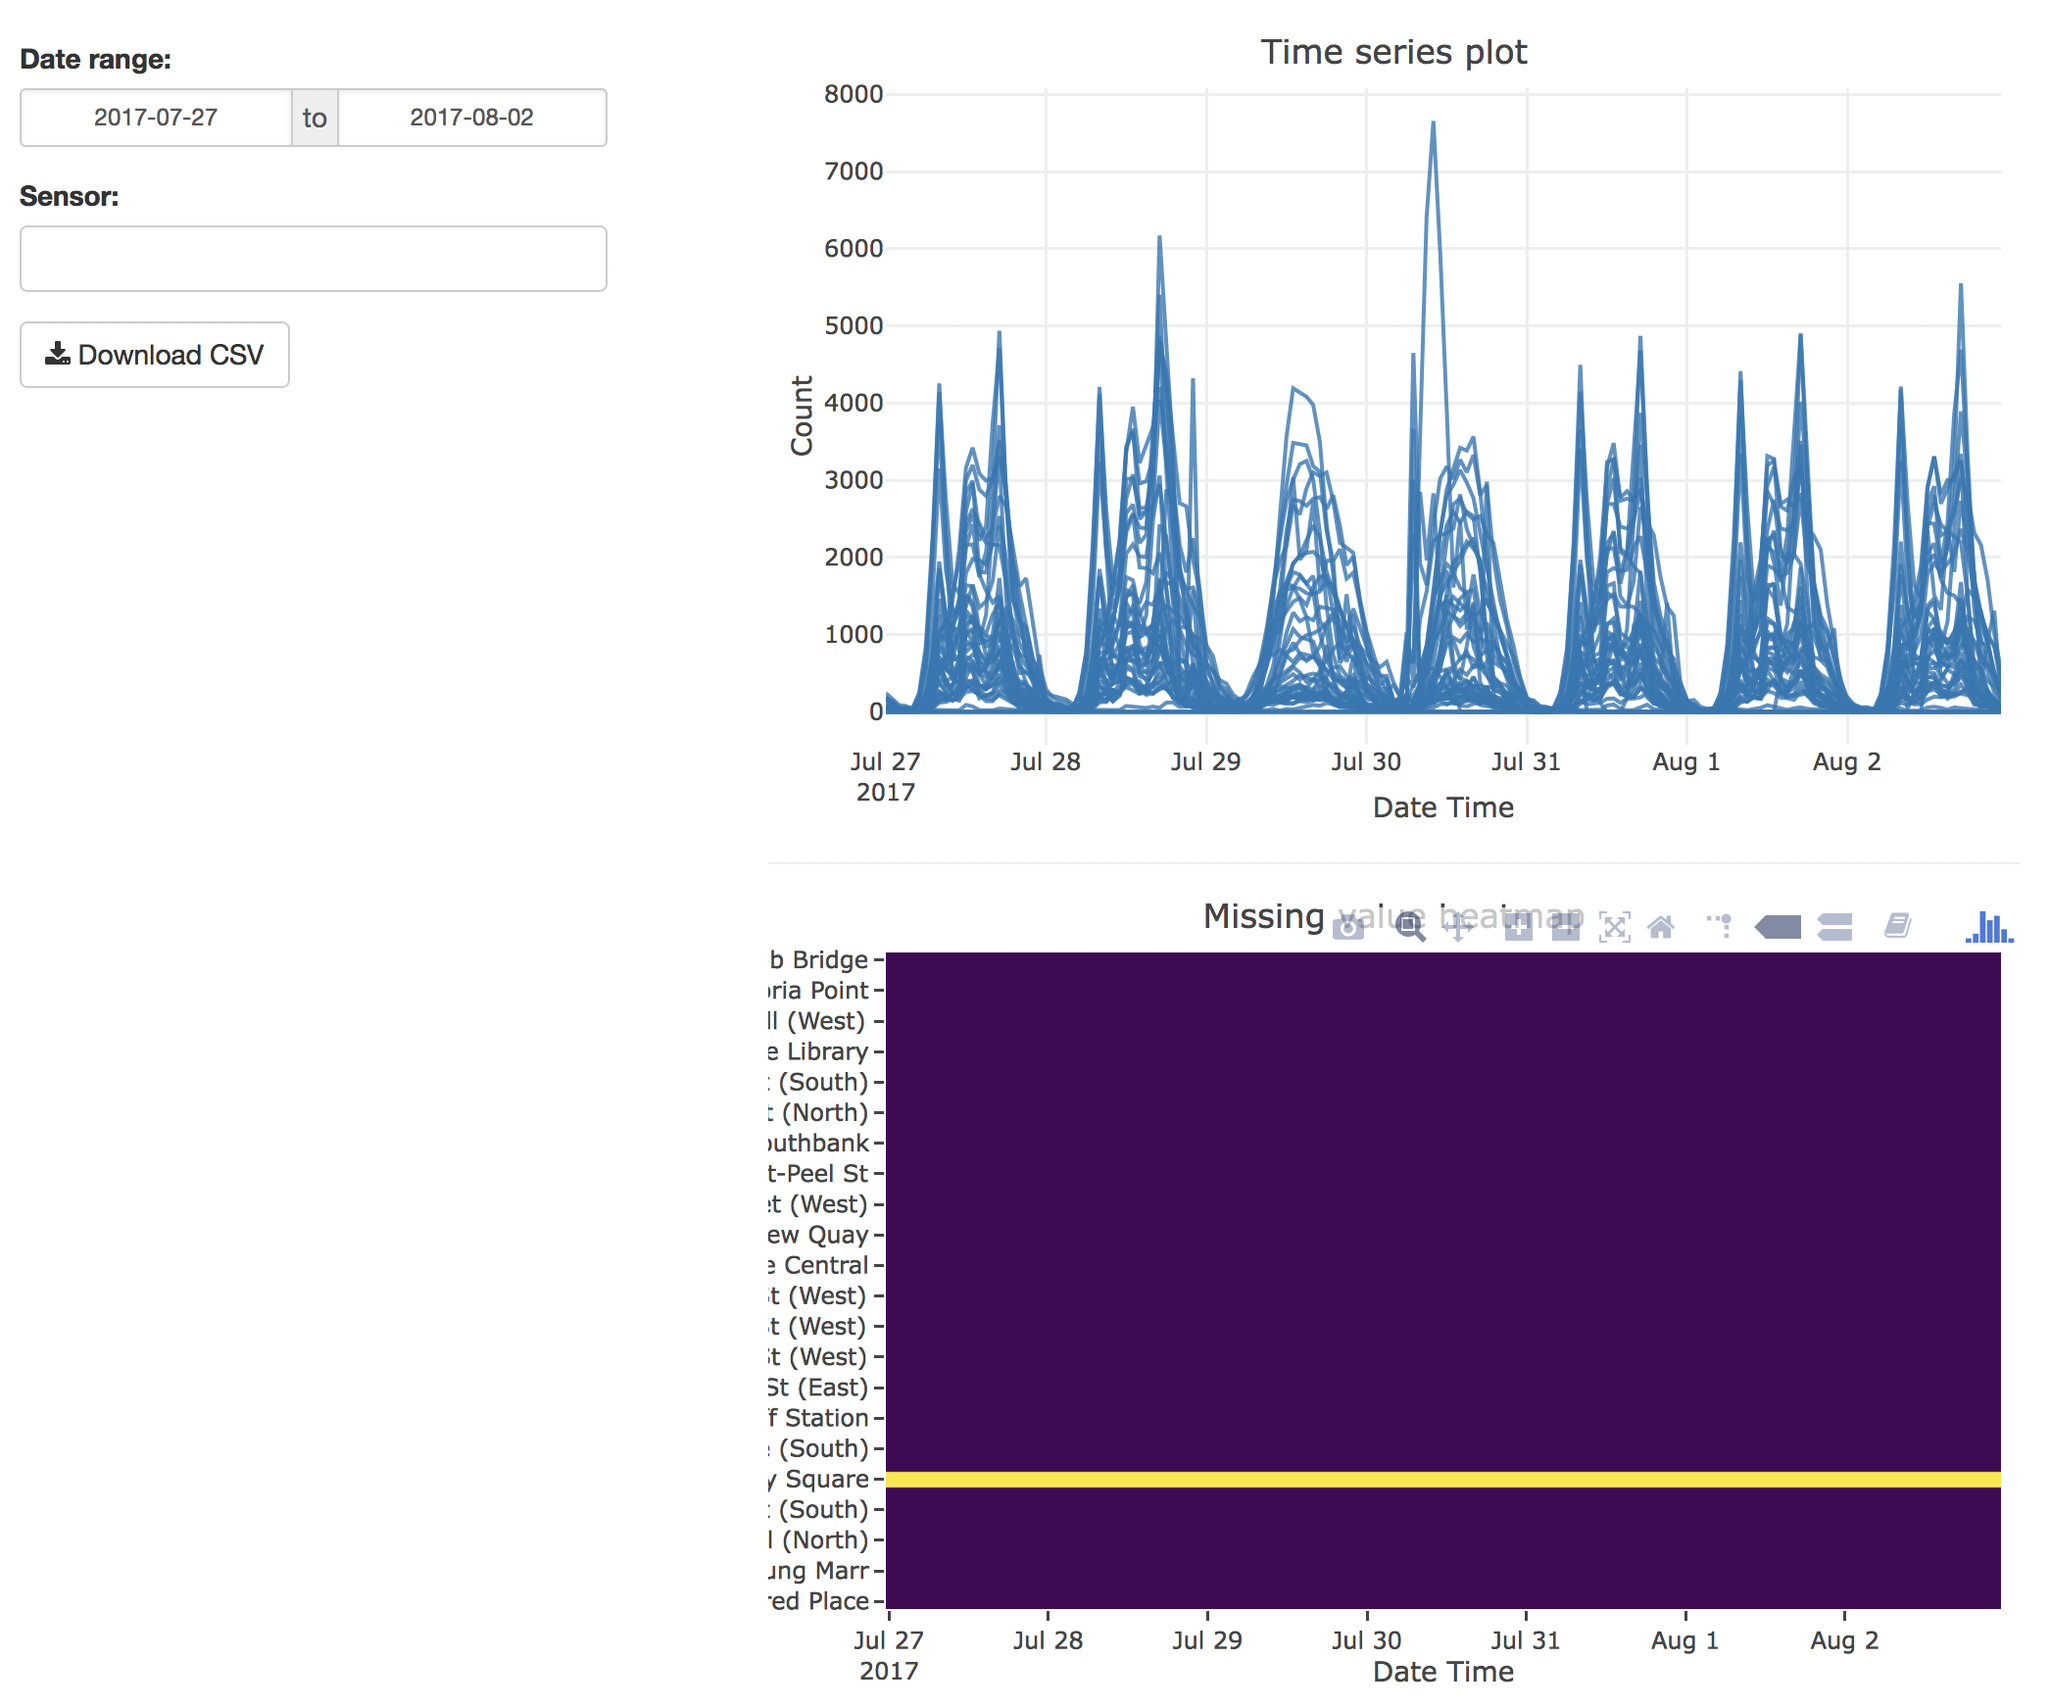
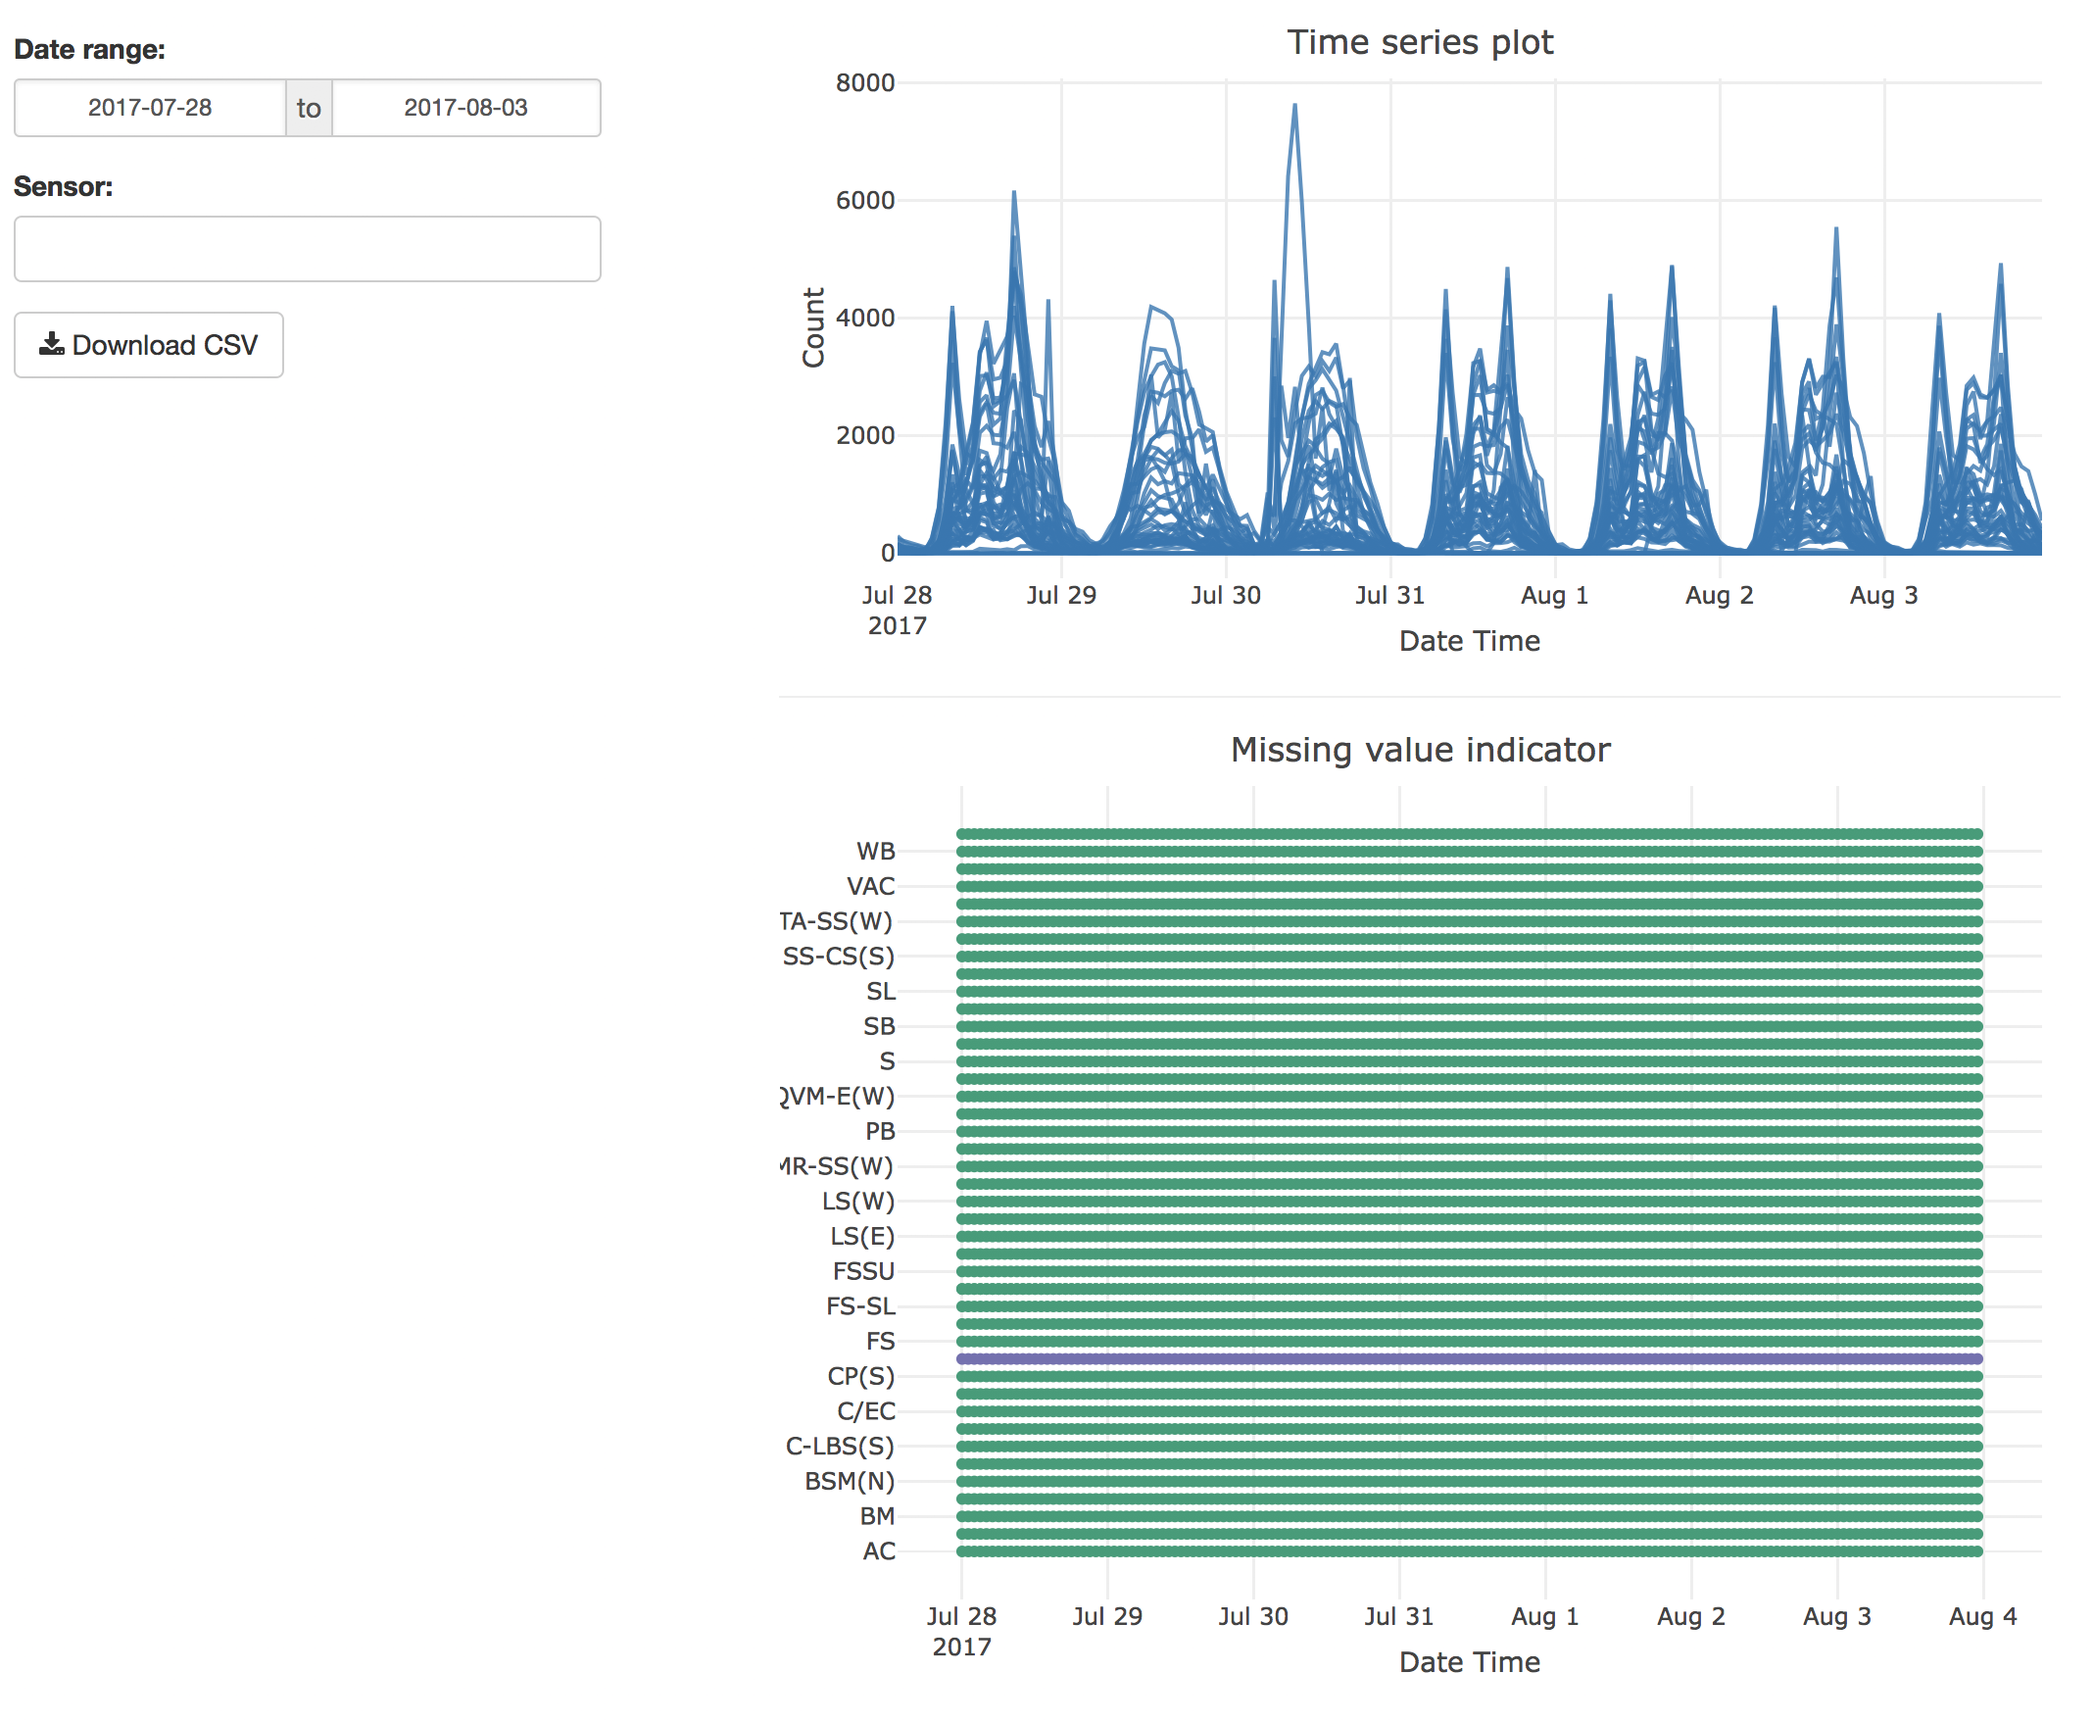
replace heatmap with dot plot

diff --git a/README.md b/README.md
@@ -52,7 +52,7 @@ ggplot(data = subset(ped, Sensor == "Melbourne Central")) +
 
 ![](man/figure/plot-1.png)
 
-The other function `shine_melb()` launches a shiny app to give a glimpse of the data. It is restricted to the data of less than one-month period. It provides two basic plots: one is an overlaying time series plot, and the other is a heatmap indicating missing values. Below is a screen-shot of the shiny app.
+The other function `shine_melb()` launches a shiny app to give a glimpse of the data. It is restricted to the data of less than one-month period. It provides two basic plots: one is an overlaying time series plot, and the other is a dot plot indicating missing values. Below is a screen-shot of the shiny app.
 
 ![](man/figure/shiny.png)
 

diff --git a/NEWS.md b/NEWS.md
@@ -1,6 +1,6 @@
 # rwalkr 0.2.0
 
-* Added the function `shine_melb()` to launch a shiny app. It provides two basic plots to take a glimpse at the data: one is an overlaying time series plot and the other showing a heatmap of missing values.
+* Added the function `shine_melb()` to launch a shiny app. It provides two basic plots to take a glimpse at the data: one is an overlaying time series plot and the other showing a dot plot of missing values.
 
 # rwalkr 0.1.0
 
